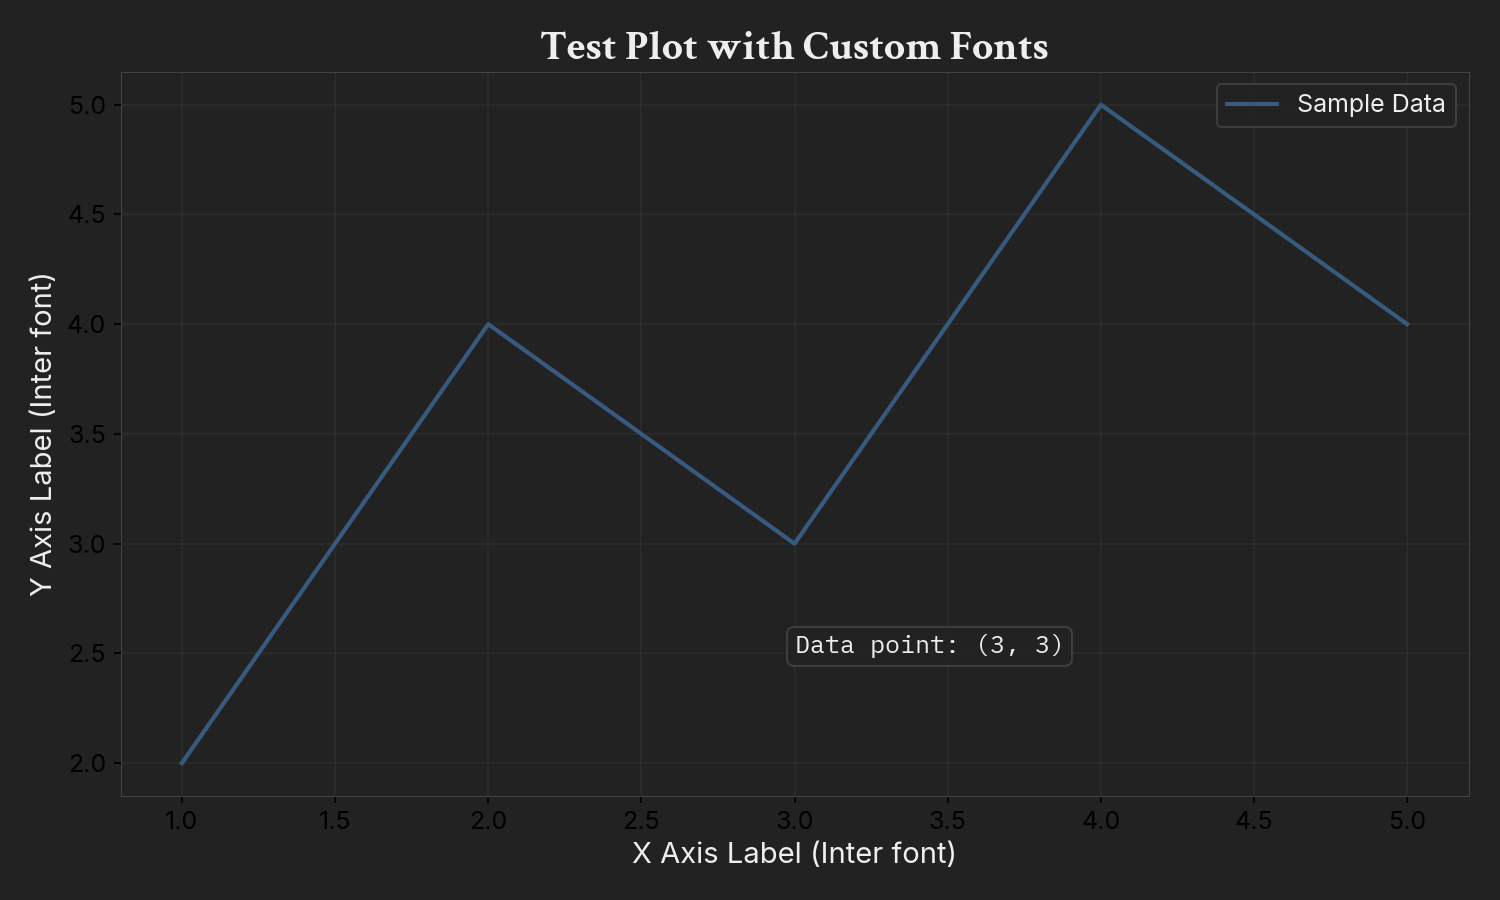
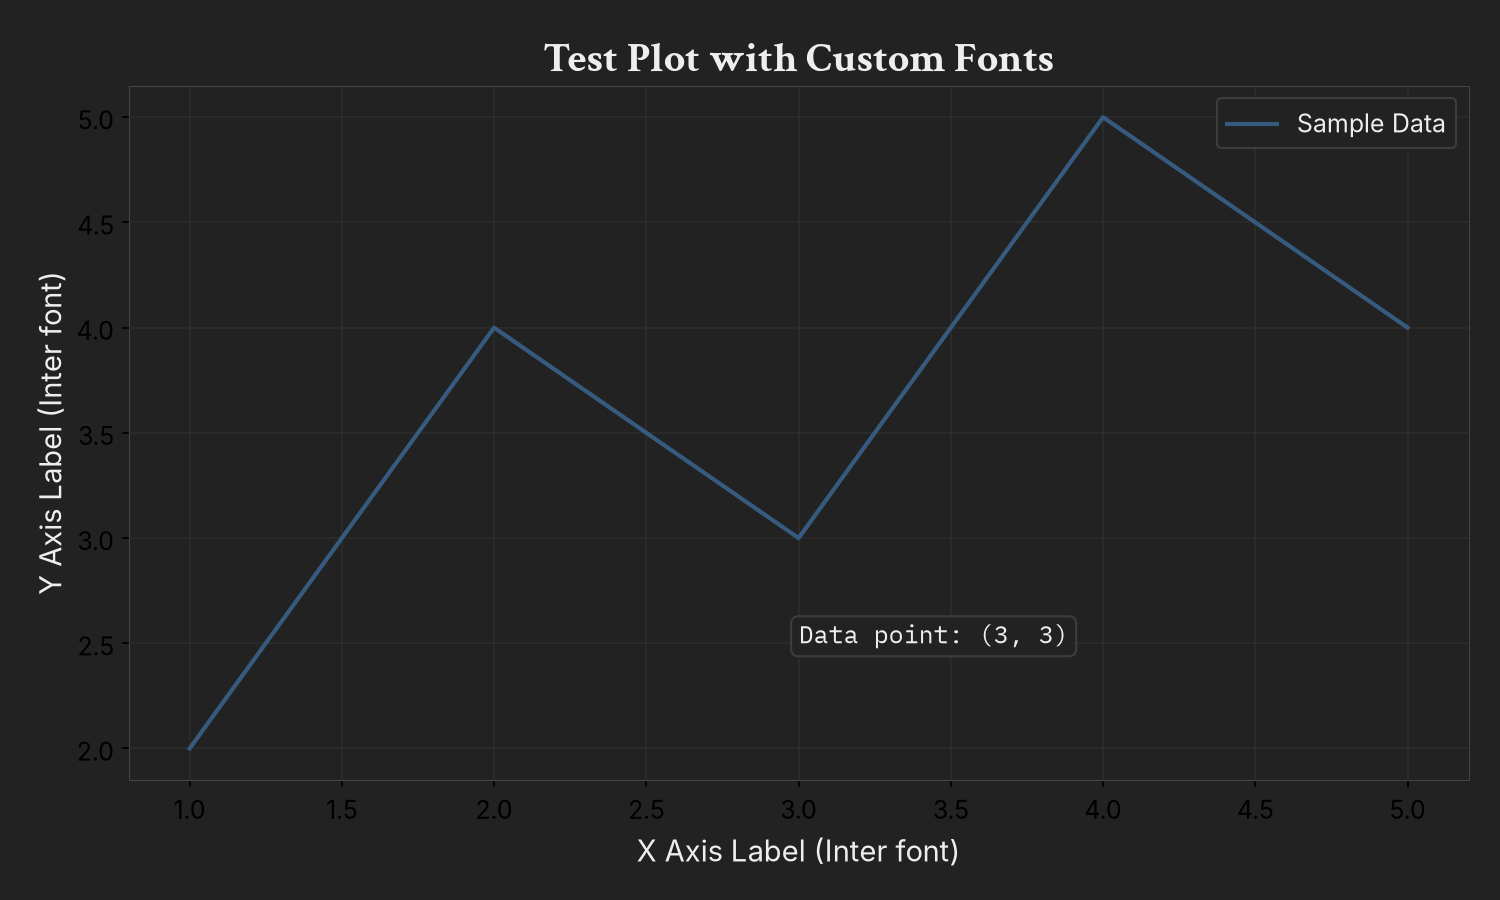
new stuff and run script

diff --git a/src/shiny_app/shared.py b/src/shiny_app/shared.py
@@ -13,41 +13,17 @@ data_dir = Path(__file__).parent.parent.parent / "data"
 images = Path(__file__).parent.parent.parent / "images"
 
 
-class _LazyDecadeStack:
-    """Indexable, lazily-loaded view over a NetCDF variable's decade axis.
-
-    ``stack[i]`` reads and returns only decade ``i`` (as float32) rather than
-    pulling every decade into memory at import time. Slices are cached, so
-    repeated views of the same decade are free. Only the ndarray operations the
-    app relies on are implemented: integer indexing and ``len()``.
-    """
-
-    def __init__(self, variable, n_decades: int):
-        self._var = variable
-        self._n = n_decades
-        self._cache: dict = {}
-
-    def __len__(self) -> int:
-        return self._n
-
-    def __getitem__(self, index: int):
-        if index not in self._cache:
-            # float32 keeps memory (and masked-array promotion) in check;
-            # netCDF4 reads only the requested decade slice from disk.
-            self._cache[index] = self._var[index].astype(np.float32)
-        return self._cache[index]
-
-
-class _LazySpiStat:
-    """Lazy, dict-like access to one decadal SPI statistic.
+class _LazyStatFiles:
+    """Lazy, dict-like access to one decadal statistic stored as per-decade files.
 
     Maps ``decade_start_year -> 2-D float32 array`` but only reads a decade's
     file the first time that year is requested. Implements just the mapping
     operations the app uses: truthiness, ``in``, ``keys()`` and indexing.
     """
 
-    def __init__(self, files: dict):
+    def __init__(self, files: dict, varname: str):
         self._files = dict(files)
+        self._var = varname
         self._cache: dict = {}
 
     def __bool__(self) -> bool:
@@ -63,59 +39,56 @@ class _LazySpiStat:
         if year not in self._cache:
             with nc.Dataset(self._files[year]) as ds:
                 self._cache[year] = np.ma.filled(
-                    ds.variables["SXI_P"][0].astype(np.float32), np.nan
+                    ds.variables[self._var][0].astype(np.float32), np.nan
                 )
         return self._cache[year]
 
-# Load decadal data files
-decadal_means_clm5_files = sorted(
-    glob.glob(str(data_dir / "decadal_SMI/CLM5/decadal_stats_*timmean.nc_classic.nc"))
-)
-decadal_means_mhm_files = sorted(
-    glob.glob(str(data_dir / "decadal_SMI/mHM/decadal_stats_*timmean.nc.nc_classic.nc"))
-)
 
-if len(decadal_means_clm5_files) == 0 or len(decadal_means_mhm_files) == 0:
-    raise FileNotFoundError("No decadal means files found in the data directory.")
-elif len(decadal_means_clm5_files) != len(decadal_means_mhm_files):
-    raise ValueError("The number of CLM5 and mHM decadal means files do not match.")
+# ── Agricultural (SMI) decadal data ─────────────────────────────────────────
+# Files: data/decadal_SMI/<model>/<model><decade>_<stat>.nc  (variable "SMI"),
+# e.g. CLM5/CLM51960_dfreq.nc. Two hydrological models (CLM5, mHM) are shown
+# side by side; each statistic/decade is loaded lazily on first access.
 
-# Extract decade years from filenames
-decade_years = []
-for file in decadal_means_clm5_files:
-    match = re.search(r"(\d{4})_(\d{4})", file)
-    if match:
-        decade_years.append(int(match.group(1)))
+_smi_dir = data_dir / "decadal_SMI"
+SMI_MODELS = ("CLM5", "mHM")
+SMI_STATS = ("mean", "dfreq", "min", "maxspell")
 
-# Load complete datasets with MFDataset
-clm5_ds = nc.MFDataset(decadal_means_clm5_files)
-mhm_ds = nc.MFDataset(decadal_means_mhm_files)
 
-# Lazily-loaded per-decade views (float32). The app only ever displays one
-# decade at a time, so reading every decade up front just wastes memory and
-# start-up time.
-CLM5_smi_full = _LazyDecadeStack(
-    clm5_ds.variables["SMI"], len(decadal_means_clm5_files)
-)
-mHM_smi_full = _LazyDecadeStack(
-    mhm_ds.variables["SMI"], len(decadal_means_mhm_files)
-)
+def _discover_smi_files(model: str, stat: str) -> dict:
+    """Map decade start year → file path for a given SMI model and statistic."""
+    out: dict = {}
+    for _f in sorted(glob.glob(str(_smi_dir / model / f"{model}*_{stat}.nc"))):
+        _m = re.search(rf"{model}(\d{{4}})_{stat}\.nc$", _f)
+        if _m:
+            out[int(_m.group(1))] = _f
+    return out
 
-# Extract coordinates (try different variable names)
-if "lon" in clm5_ds.variables:
-    lon = clm5_ds.variables["lon"][:]
-    lat = clm5_ds.variables["lat"][:]
-elif "rlon" in clm5_ds.variables:
-    lon = clm5_ds.variables["rlon"][:]
-    lat = clm5_ds.variables["rlat"][:]
-else:
-    coord_vars = list(clm5_ds.variables.keys())
-    raise ValueError(
-        f"Could not find lat/lon or rlon/rlat in dataset. Available: {coord_vars}"
-    )
 
-# Create mapping from decade year to array index
-decade_to_index = {year: idx for idx, year in enumerate(decade_years)}
+_smi_files = {
+    model: {stat: _discover_smi_files(model, stat) for stat in SMI_STATS}
+    for model in SMI_MODELS
+}
+
+# Per-model, per-statistic lazy data: SMI_STAT_DATA[model][stat][decade_year].
+SMI_STAT_DATA = {
+    model: {
+        stat: _LazyStatFiles(_smi_files[model][stat], "SMI") for stat in SMI_STATS
+    }
+    for model in SMI_MODELS
+}
+
+# 1-D lat/lon (regular grid) – identical across files, loaded once if present.
+# None when the SMI dataset has not been synced yet (app degrades gracefully).
+SMI_lat = None
+SMI_lon = None
+_clm5_mean_files = _smi_files["CLM5"]["mean"]
+if _clm5_mean_files:
+    with nc.Dataset(_clm5_mean_files[min(_clm5_mean_files)]) as _ds:
+        SMI_lat = _ds.variables["lat"][:].astype(np.float32)
+        SMI_lon = _ds.variables["lon"][:].astype(np.float32)
+
+# Decade start years available for SMI (from the CLM5 mean files).
+smi_decade_years = sorted(_clm5_mean_files.keys())
 
 # ── Streamflow / discharge data ───────────────────────────────────────────────
 # Loaded only when present. When the discharge dataset has not been synced yet
@@ -348,7 +321,7 @@ def _build_gauge_map_html(gauge_df: pd.DataFrame) -> str:
 gauge_map_html = _build_gauge_map_html(gauge_meta)
 
 # ── SPI (Standardized Precipitation Index) decadal data ──────────────────────
-# All SPI data is loaded lazily (see _LazySpiStat): only the file paths are
+# All SPI data is loaded lazily (see _LazyStatFiles): only the file paths are
 # discovered at import time, and each decade's grid is read on first access.
 # If the SPI dataset has not been added yet, the app degrades gracefully — the
 # meteorological maps show an "not available" message instead of crashing.
@@ -391,8 +364,8 @@ if _spi_mean_files:
 # Per-statistic decadal data keyed by statistic name; each value is a lazy,
 # dict-like mapping of decade start year → 2-D field, read on first access.
 SPI_STAT_DATA: dict = {
-    "mean": _LazySpiStat(_spi_mean_files),
-    "dfreq": _LazySpiStat(_discover_spi_stat_files("dfreq")),
-    "min": _LazySpiStat(_discover_spi_stat_files("min")),
-    "maxspell": _LazySpiStat(_discover_spi_stat_files("maxspell")),
+    "mean": _LazyStatFiles(_spi_mean_files, "SXI_P"),
+    "dfreq": _LazyStatFiles(_discover_spi_stat_files("dfreq"), "SXI_P"),
+    "min": _LazyStatFiles(_discover_spi_stat_files("min"), "SXI_P"),
+    "maxspell": _LazyStatFiles(_discover_spi_stat_files("maxspell"), "SXI_P"),
 }

diff --git a/src/shiny_app/app.py b/src/shiny_app/app.py
@@ -8,18 +8,17 @@ from datetime import date, timedelta
 
 import matplotlib.pyplot as plt
 from shared import (
-    CLM5_smi_full,
+    SMI_lat,
+    SMI_lon,
+    SMI_STAT_DATA,
     SPI_lat,
     SPI_lon,
     SPI_STAT_DATA,
-    decade_to_index,
     discharge_time,
     gauge_map_html,
     gauge_meta,
     get_gauge_discharge,
     images,
-    lat,
-    lon,
 )
 from shiny import App, render, ui
 from shiny.types import ImgData
@@ -94,6 +93,48 @@ SPI_STATISTICS = {
             "the length of the longest uninterrupted period with the 92-day SPI "
             "at or below \u22121; longer spells indicate more persistent drought"
         ),
+    },
+}
+
+# Per-statistic plotting configuration for the agricultural (SMI) maps.
+# SMI is a 0..1 soil-moisture index (0 = driest). Two hydrological models
+# (CLM5, mHM) are shown side by side, so there is no atmospheric-forcing choice.
+SMI_STATISTICS = {
+    "mean": {
+        "label": "Mean index",
+        "cmap": "inferno_r",
+        "vmin": 0.3,
+        "vmax": 0.6,
+        "extend": "both",
+        "scale": 1.0,
+        "cbar_label": "Mean SMI (dimensionless)",
+    },
+    "dfreq": {
+        "label": "Drought frequency",
+        "cmap": "YlOrRd",
+        "vmin": 0.0,
+        "vmax": 40.0,
+        "extend": "max",
+        "scale": 100.0,
+        "cbar_label": "Time in drought (%)",
+    },
+    "min": {
+        "label": "Peak severity",
+        "cmap": "YlOrRd_r",
+        "vmin": 0.0,
+        "vmax": 0.3,
+        "extend": "max",
+        "scale": 1.0,
+        "cbar_label": "Minimum SMI reached",
+    },
+    "maxspell": {
+        "label": "Longest dry spell",
+        "cmap": "YlOrRd",
+        "vmin": 0.0,
+        "vmax": 200.0,
+        "extend": "max",
+        "scale": 1.0,
+        "cbar_label": "Longest spell (days)",
     },
 }
 
@@ -564,46 +605,32 @@ def server(input, output, session) -> None:
     @render.plot
     def render_eu3_map():
         from plots import EU3_map
-        from shared import mHM_smi_full
 
-        # Soil-moisture (SMI) currently only has the decadal mean precomputed;
-        # the other statistics exist for the meteorological (SPI) index only.
-        if input.statistic() != "mean":
+        stat_key = input.statistic()
+        stat = SMI_STATISTICS.get(stat_key, SMI_STATISTICS["mean"])
+        decade_year = input.dec().year
+
+        clm5_stat = SMI_STAT_DATA["CLM5"].get(stat_key)
+        mhm_stat = SMI_STAT_DATA["mHM"].get(stat_key)
+        if not clm5_stat or not mhm_stat:
             return _message_fig(
-                "Only the decadal mean is currently available for soil "
-                "moisture (SMI).\nSelect \u201cMean index\u201d, or open the "
-                "Meteorological tab for other statistics."
+                f'The “{stat["label"]}” statistic is not available for soil '
+                "moisture (SMI)."
             )
 
-        # Get selected decade from the "dec" slider input
-        selected_date = input.dec()
-        decade_year = selected_date.year
+        # Fall back to the earliest available decade if this one is missing.
+        if decade_year not in clm5_stat:
+            decade_year = min(clm5_stat.keys())
 
-        # Get the index for this decade from the mapping
-        time_index = decade_to_index.get(decade_year)
-
-        if time_index is None:
-            # Fallback to first available decade if not found
-            decade_year = min(decade_to_index.keys())
-            time_index = decade_to_index[decade_year]
-
-        # Extract the 2D arrays for this decade (already pre-loaded in memory)
-        clm5_smi_data = CLM5_smi_full[time_index]
-        mhm_smi_data = mHM_smi_full[time_index]
-
-        # Squeeze data if it has extra dimensions
-        if len(clm5_smi_data.shape) > 2:
-            clm5_smi_data = clm5_smi_data.squeeze()
-        if len(mhm_smi_data.shape) > 2:
-            mhm_smi_data = mhm_smi_data.squeeze()
-
-        vmin = 0.3
-        vmax = 0.6
-        cmap = "inferno_r"
+        clm5_smi_data = clm5_stat[decade_year] * stat["scale"]
+        mhm_smi_data = mhm_stat[decade_year] * stat["scale"]
 
         # Create fresh map instance (required by Shiny's matplotlib backend)
         eu_map_instance = EU3_map(
-            suptitle=f"Soil moisture index (SMI) for decade {decade_year}-{decade_year + 9}",
+            suptitle=(
+                f"Soil moisture (SMI) — {stat['label'].lower()}, "
+                f"{decade_year}–{decade_year + 9}"
+            ),
             title=["CLM5", "mHM"],
             description="",
             color_mode="dark",
@@ -611,37 +638,32 @@ def server(input, output, session) -> None:
         )
         fig, _, axs = eu_map_instance.create()
 
-        # Add data to both plots with same scale
-        if lon is not None and lat is not None:
-            # Plot CLM5 on left axis
+        # Add data to both plots with the same scale
+        if SMI_lon is not None and SMI_lat is not None:
             eu_map_instance.pcolormesh(
-                lon,
-                lat,
+                SMI_lon,
+                SMI_lat,
                 clm5_smi_data,
                 ax_num=0,
-                cmap=cmap,
-                vmin=vmin,
-                vmax=vmax,
+                cmap=stat["cmap"],
+                vmin=stat["vmin"],
+                vmax=stat["vmax"],
                 alpha=0.8,
             )
-
-            # Plot mHM on right axis
             eu_map_instance.pcolormesh(
-                lon,
-                lat,
+                SMI_lon,
+                SMI_lat,
                 mhm_smi_data,
                 ax_num=1,
-                cmap=cmap,
-                vmin=vmin,
-                vmax=vmax,
+                cmap=stat["cmap"],
+                vmin=stat["vmin"],
+                vmax=stat["vmax"],
                 alpha=0.8,
             )
-
-            # Add colorbar on the right of both plots
             eu_map_instance.colorbar(
                 eu_map_instance.pcolormesh_obj,
-                cbar_label="Soil Moisture Index",
-                extend="both",
+                cbar_label=stat["cbar_label"],
+                extend=stat["extend"],
             )
 
         return fig
